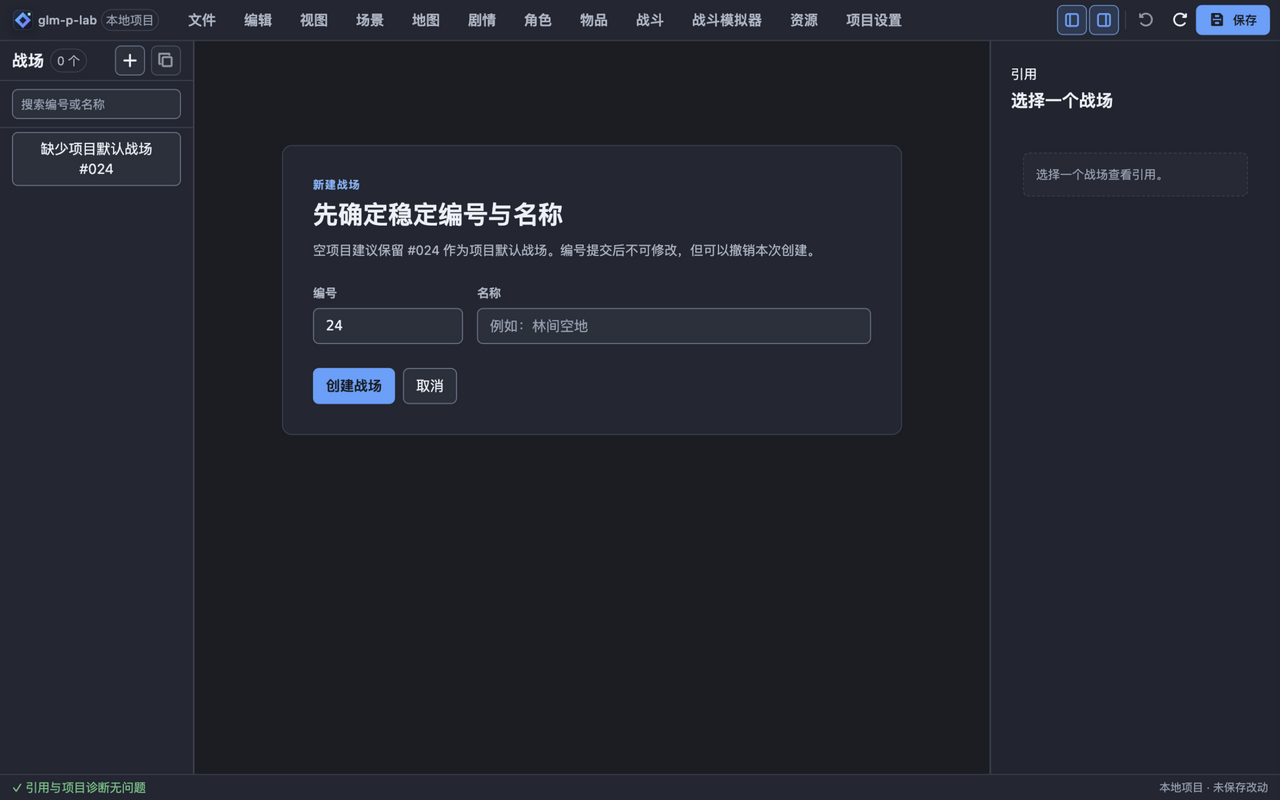
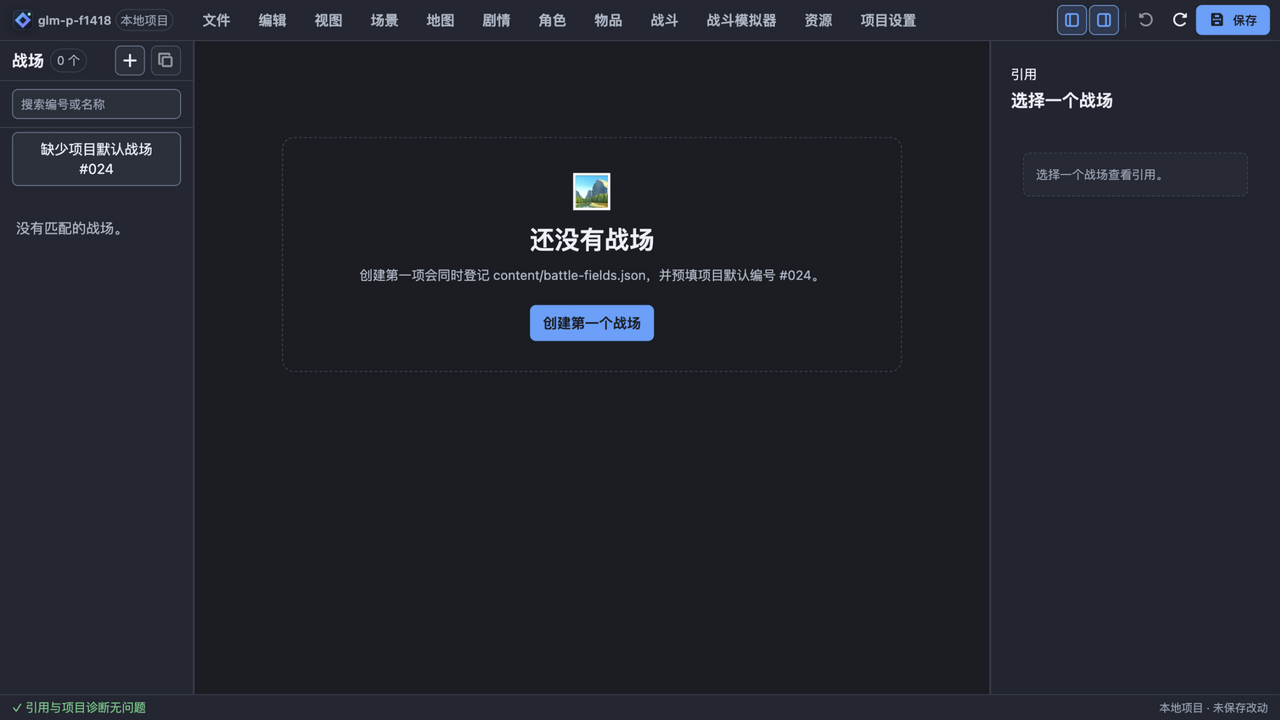
docs(test): wave-P r18 visual phase — F14 four phases proven (save-reopen host-blocked), F18 product-blocked (narrow toolbar overlays nav trigger)
Own mkdtemp candidate copy + buildBlankProject('glm-p-f1418') manifest read back + idle port 6187; real PAL/6012/repo projects untouched.

F14 (6 screenshots, phases before/creating/submitted/undo/redo/reopen):
- creation state vs real submit distinguished (prefilled #24 form, count 0 -> submit -> 1, selected [pressed], real undo entry '撤销：新建战场' in edit menu)
- edit-menu undo -> object gone + empty state returns; redo -> restored+selected
- save+reopen sub-phase BLOCKED: first save requires native showDirectoryPicker (use-editor-project-session.ts pickDir); three real save entries (toolbar/Meta+S/file menu) hang at choosing-directory with zero console diagnostics; cold reopen (fresh tab; long-lived tab reload never commits — single navigation entry) confirms not persisted
- console: 0 error/pageError/rejection

F18 (4 screenshots): PRODUCT-level narrow-layout defect on fixed P candidate — at 375x700 toolbar (undo x229-259 / redo x261-291 / save x293-367, y5-35) fully covers the nav trigger (x239-293, y4-36); 10/10 elementFromPoint probes hit toolbar; .ds-menubar 87px/230px overflow-visible; Playwright click intercepted-timeout, coordinate click lands on redo (page hash unchanged); keyboard delivery host-broken (press -> zero keydown, cua Tab stuck at body). Dropdown never opened; module navigation/wide-restore sub-phases not executed. Adjudication to Codex.
[…]

diff --git a/docs/testing/glm-tenfold-triple/wave-P/browser/README.md b/docs/testing/glm-tenfold-triple/wave-P/browser/README.md
@@ -22,10 +22,10 @@
 | F11 | f11-before.png | f11-after-rename.png, f11-after-menu-undo.png, f11-after-menu-redo.png |
 | F12 | f12-before.png | f12-after-rename.png, f12-after-undo.png |
 | F13 | f13-before.png | f13-after-create.png, f13-after-undo.png |
-| F14 | f14-before.png | f14-after-create.png, f14-after-undo.png（未证完整功能流，如实登记） |
+| F14 | f14-before.png, f14-creating.png | f14-after-created.png, f14-after-undo.png, f14-after-redo.png, f14-after-reopen.png（r18：创建/提交/undo/redo 实证；保存重开子相位 blocked——原生目录选择器不可达；旧 attempt 截图保留） |
 | F15 | f15-before.png | f15-after-create.png, f15-after-undo.png |
 | F16 | f16-before.png | f16-after-select.png（面板常显，如实登记） |
 | F17 | f17-before.png | —（浏览记录） |
-| F18 | f18-before-narrow-scene.png | f18-after-narrow-map.png（导航下拉未展开，未证可达） |
+| F18 | f18-narrow-before.png | f18-nav-open.png, f18-nav-open-retry.png, f18-overlay-detail.png（r18：产品级 blocked——375px 工具栏完全覆盖导航触发，10/10 命中测试；键盘派发宿主不可用；旧 attempt 截图保留） |
 | F19 | f19-before.png | f19-after-toggle.png |
 | F20 | f20-before.png | —（浏览记录） |
